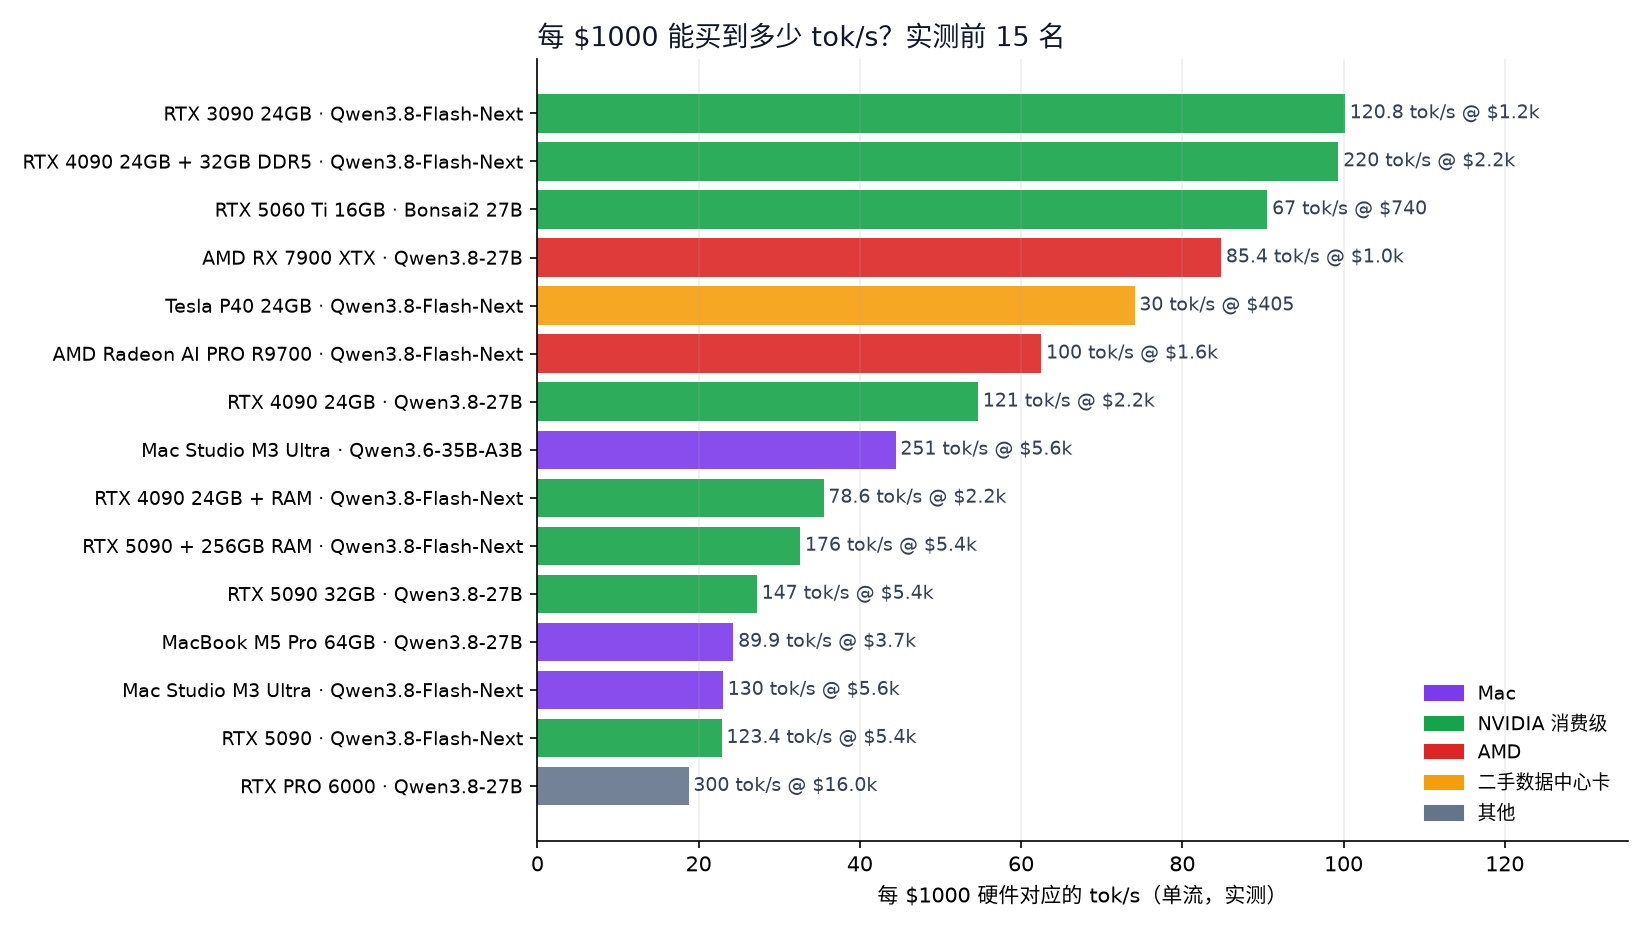
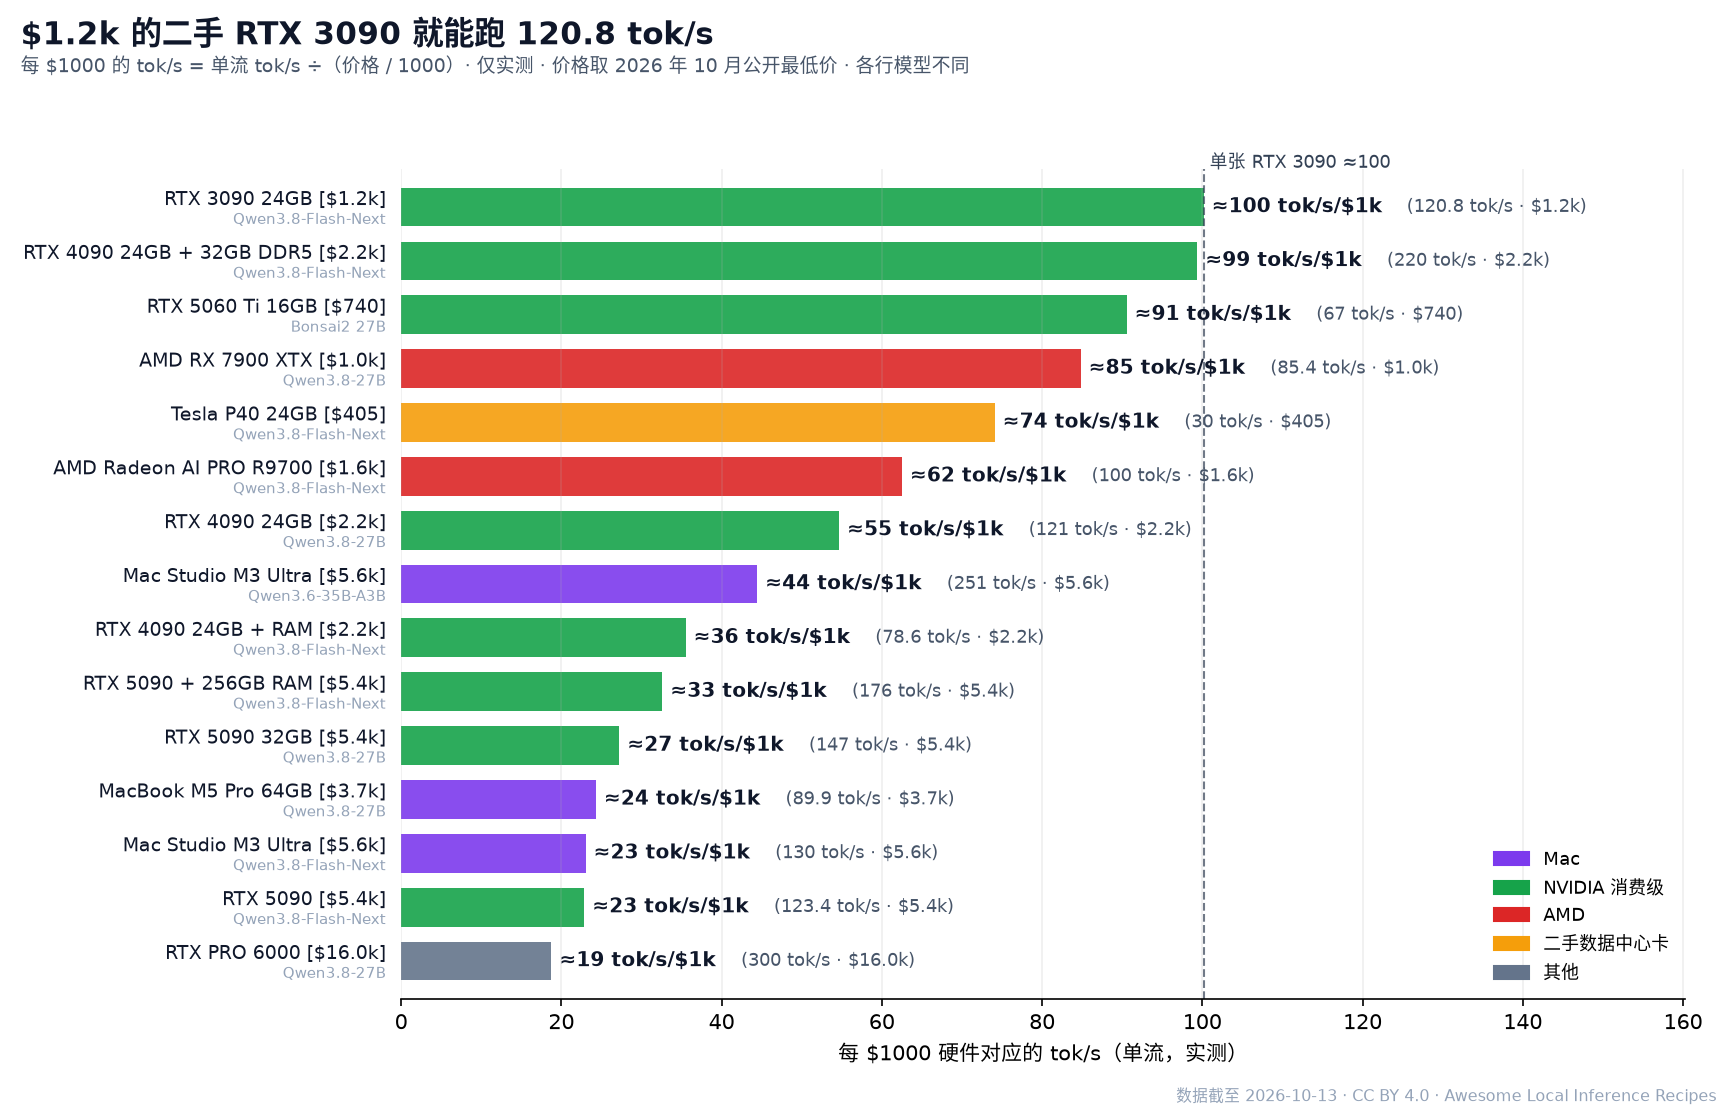
Hero v2: value labels (tok/s/$1k + raw tok/s · price), price in labels, grey model names, RTX 3090 baseline, auto conclusion title, metric subtitle, data/licence note (en/zh-CN/ja)

diff --git a/scripts/gen_hero.py b/scripts/gen_hero.py
@@ -44,17 +44,44 @@ for r in U: r['_v']=r['tok_s']/r['hardware_cost_usd']*1000; r['_m']=r['source_le
 
 def style(ax):
     for s in ('top','right'): ax.spines[s].set_visible(False)
+def _asof():
+    m=re.search(r"DATA_ASOF\s*=\s*'([^']+)'",open(R/'scripts/gen_readme.py').read()); return m.group(1) if m else ''
+def _used(r): return '二手' in (r.get('hardware_cost_text') or '') or '二手' in r['hardware']
+HT={'en':dict(t='A {p} {u}{hw} runs {tok:g} tok/s',used='used ',
+      sub='tok/s per $1,000 of hardware = single-stream tok/s ÷ (price / 1000) · measured results only · lowest published price, Oct 2026 · models differ per row',
+      base='single RTX 3090 ≈{v:.0f}',note='Data as of {d} · CC BY 4.0 · Awesome Local Inference Recipes'),
+    'zh-CN':dict(t='{p} 的{u}{hw} 就能跑 {tok:g} tok/s',used='二手 ',
+      sub='每 $1000 的 tok/s = 单流 tok/s ÷（价格 / 1000）· 仅实测 · 价格取 2026 年 10 月公开最低价 · 各行模型不同',
+      base='单张 RTX 3090 ≈{v:.0f}',note='数据截至 {d} · CC BY 4.0 · Awesome Local Inference Recipes'),
+    'ja':dict(t='{p} の{u}{hw} で {tok:g} tok/s',used='中古 ',
+      sub='$1,000 あたり tok/s = 1 ストリーム tok/s ÷（価格 / 1000）· 実測のみ · 2026 年 10 月の公開最安価格 · 行ごとにモデルは異なる',
+      base='RTX 3090 1 枚 ≈{v:.0f}',note='データ時点 {d} · CC BY 4.0 · Awesome Local Inference Recipes')}
 def hero(lang):
-    t=TX[lang]; top=sorted([r for r in U if r['_m']],key=lambda r:(-r['_v'],r['id']))[:15][::-1]
-    fig,ax=plt.subplots(figsize=(11,6.2),dpi=150)
+    t=TX[lang]; h=HT[lang]
+    meas=[r for r in U if r['_m']]; top=sorted(meas,key=lambda r:(-r['_v'],r['id']))[:15]
+    first=top[0]; top=top[::-1]
+    fig,ax=plt.subplots(figsize=(11.5,7.4),dpi=150)
+    vmax=max(r['_v'] for r in top)
     for i,r in enumerate(top):
-        ax.barh(i,r['_v'],color=FAM[r['hardware_family']],alpha=.9)
-        ax.text(r['_v']+.6,i,f"{r['tok_s']:g} tok/s @ {money(r['hardware_cost_usd'])}",va='center',fontsize=9,color='#334155')
-    ax.set_yticks(range(len(top))); ax.set_yticklabels([f"{clean(r['hardware'],30)} · {clean(r['model'],24)}" for r in top],fontsize=9)
-    ax.set_xlabel(t['h_x']); ax.set_xlim(0,max(r['_v'] for r in top)*1.35)
-    ax.set_title(t['h_title'],loc='left',fontsize=13,color='#0f172a'); style(ax); ax.grid(axis='x',alpha=.2)
+        ax.barh(i,r['_v'],color=FAM[r['hardware_family']],alpha=.9,height=.72)
+        ax.text(r['_v']+vmax*.01,i,f"≈{r['_v']:.0f} tok/s/$1k",va='center',fontsize=9.5,fontweight='bold',color='#0f172a')
+        ax.annotate(f"({r['tok_s']:g} tok/s · {money(r['hardware_cost_usd'])})",(r['_v']+vmax*.01,i),xytext=(len(f"≈{r['_v']:.0f} tok/s/$1k")*6.4+4,0),textcoords='offset points',va='center',fontsize=8.5,color='#475569')
+        ax.text(-.012,i+.13,f"{clean(r['hardware'],30)} [{money(r['hardware_cost_usd'])}]",transform=ax.get_yaxis_transform(),ha='right',va='center',fontsize=9.2,color='#0f172a')
+        ax.text(-.012,i-.24,clean(r['model'],34),transform=ax.get_yaxis_transform(),ha='right',va='center',fontsize=7.3,color='#94a3b8')
+    ax.set_yticks([]); ax.set_ylim(-.7,len(top)-.3)
+    b=[r for r in meas if re.fullmatch(r'(单 )?RTX 3090( 24GB)?',clean(r['hardware'],80))]
+    if b:
+        bv=max(r['_v'] for r in b); ax.axvline(bv,ls='--',lw=1,color='#334155',alpha=.7)
+        ax.text(bv,len(top)-.35,' '+h['base'].format(v=bv),fontsize=8.5,color='#334155',va='bottom')
+    ax.set_xlim(0,vmax*1.6); ax.set_xlabel(t['h_x'],fontsize=10)
+    hw=clean(first['hardware'],40); hw=re.sub(r'^(单 )','',hw)
+    fig.suptitle(h['t'].format(p=money(first['hardware_cost_usd']),u=h['used'] if _used(first) else '',hw=re.sub(r' \d+GB$','',hw),tok=first['tok_s']),x=.012,y=.985,ha='left',fontsize=15,fontweight='bold',color='#0f172a')
+    fig.text(.012,.935,h['sub'],ha='left',fontsize=9,color='#475569')
+    fig.text(.995,.008,h['note'].format(d=_asof()),ha='right',fontsize=7.5,color='#94a3b8')
+    style(ax); ax.spines['left'].set_visible(False); ax.grid(axis='x',alpha=.2)
     fams=[k for k in FAM if any(r['hardware_family']==k for r in top)]
-    ax.legend(handles=[Patch(color=FAM[k],label=t['fam'][k]) for k in fams],frameon=False,loc='lower right',fontsize=9)
+    ax.legend(handles=[Patch(color=FAM[k],label=t['fam'][k]) for k in fams],frameon=False,loc='lower right',fontsize=8.5,ncol=1)
+    fig.tight_layout(rect=(0,.02,1,.935))
     return fig
 def tiers(lang):
     t=TX[lang]; fig,ax=plt.subplots(figsize=(11,5.4),dpi=150); y=0; ticks=[]; xmax=0; used=set()
@@ -76,6 +103,7 @@ def tiers(lang):
     style(ax); ax.grid(axis='x',alpha=.2)
     h=[Patch(color=FAM[k],label=t['fam'][k]) for k in FAM if k in used]+[Patch(facecolor='white',edgecolor='#334155',hatch='///',label=t['claim'])]
     ax.legend(handles=h,frameon=False,loc='lower right',fontsize=9)
+    fig.tight_layout()
     return fig
 if __name__=='__main__':
     have={f.name for f in fm.fontManager.ttflist}
@@ -83,4 +111,4 @@ if __name__=='__main__':
         plt.rcParams['font.family']=['DejaVu Sans']+([CJK[lang]] if lang in CJK and CJK[lang] in have else [])
         if lang in CJK and CJK[lang] not in have: print(f'warning: {CJK[lang]} not installed; CJK labels may render as boxes')
         for name,fn in (('hero',hero),('budget-tiers',tiers)):
-            p=R/f'docs/{name}{suf}.png'; f=fn(lang); f.tight_layout(); f.savefig(p,facecolor='white',metadata={'Software':None}); plt.close(f); print(p.relative_to(R))
+            p=R/f'docs/{name}{suf}.png'; f=fn(lang); f.savefig(p,facecolor='white',metadata={'Software':None}); plt.close(f); print(p.relative_to(R))
